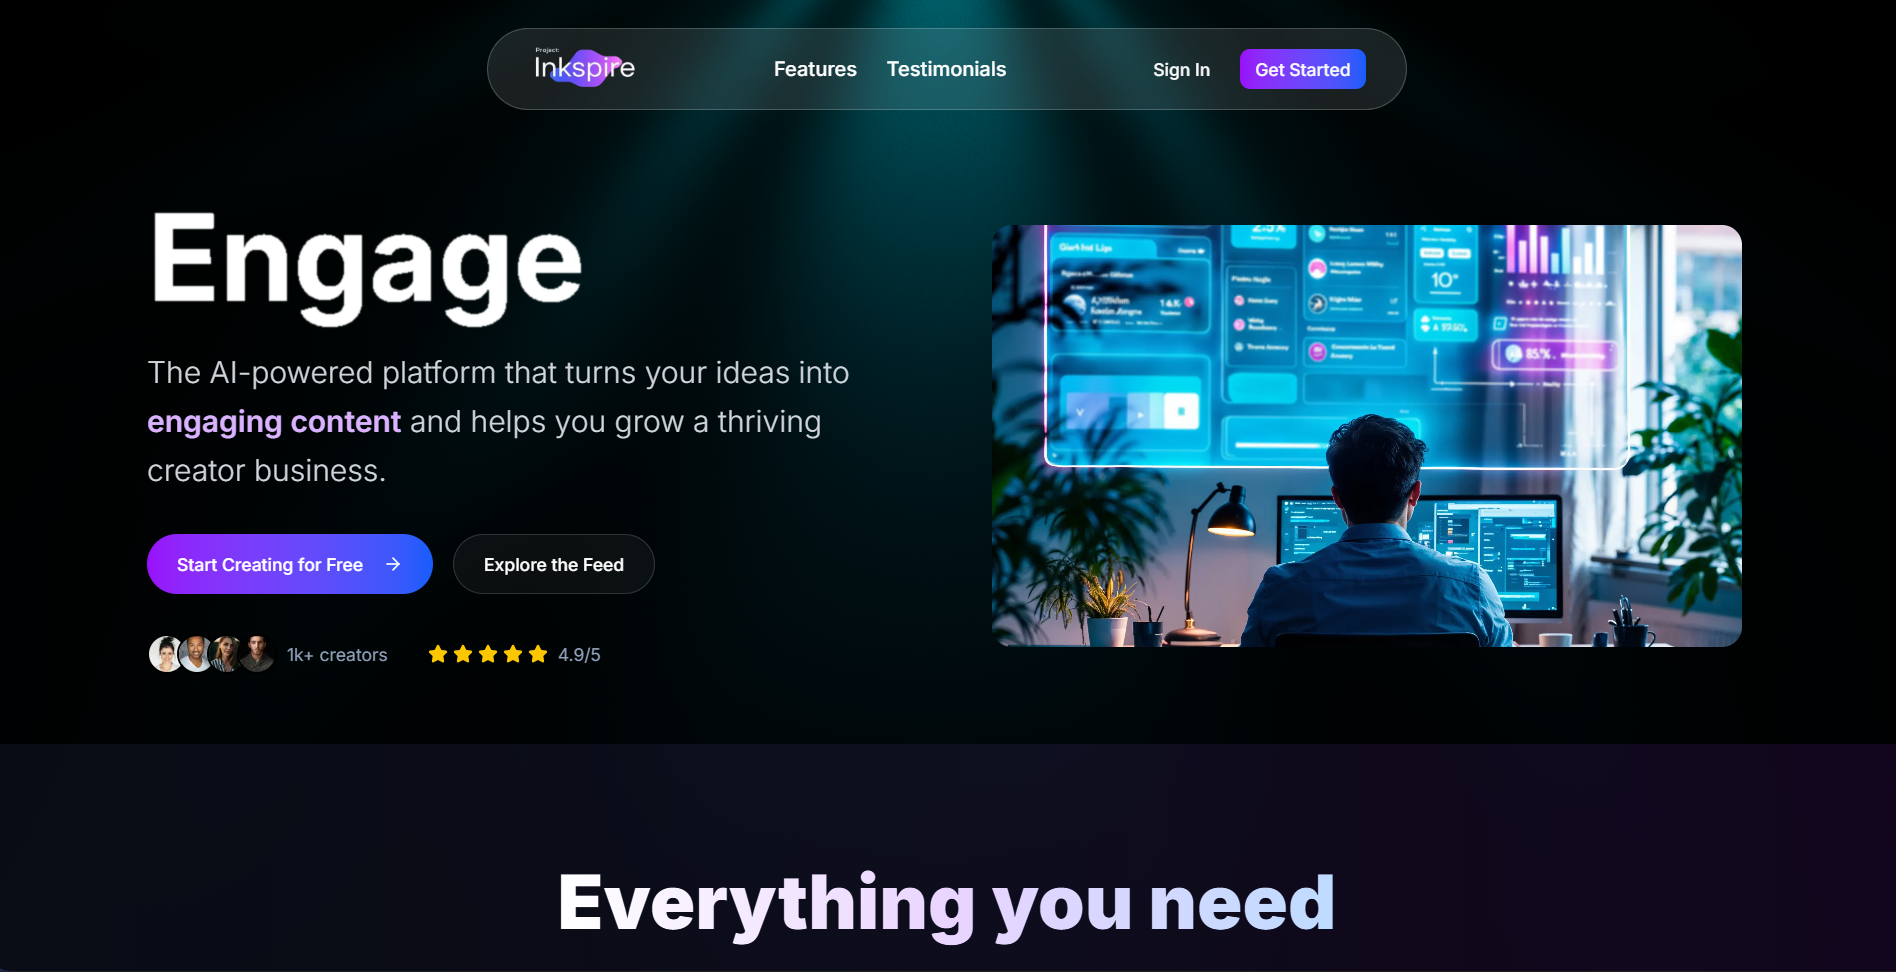
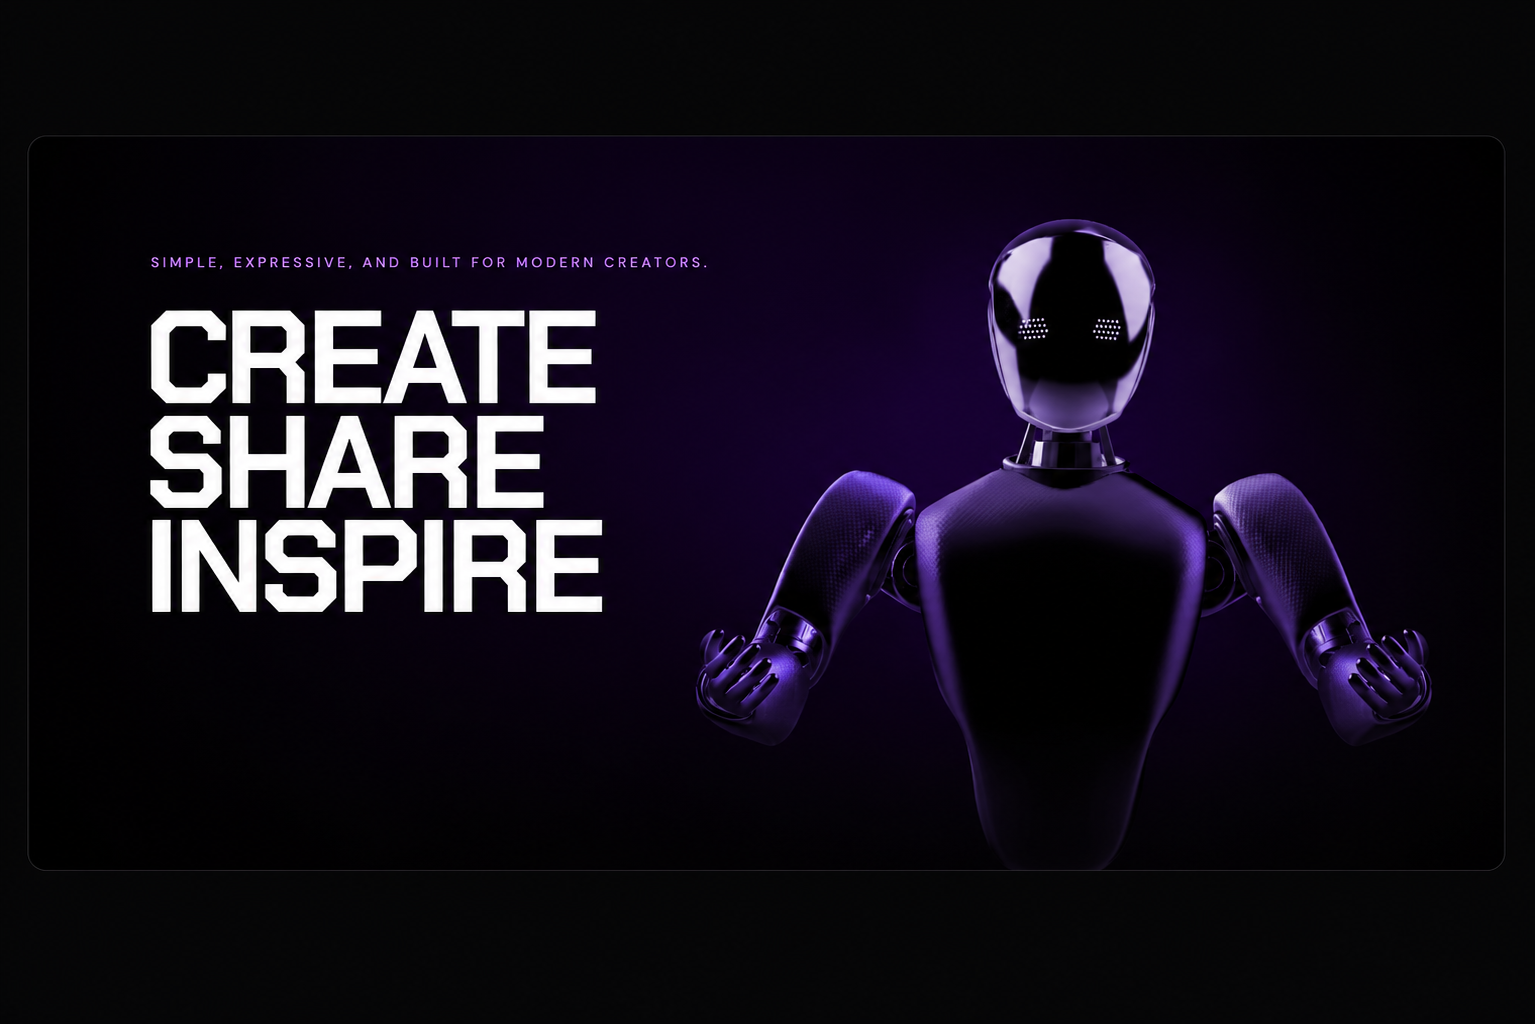
fix(projects): update inkspire thumbnail asset and project data

diff --git a/Client/src/data/projects.ts b/Client/src/data/projects.ts
@@ -3,7 +3,7 @@ export const projects = [
     title: "Inkspire | AI Content Platform",
     description:
       "Inkspire is an AI-powered content creation and sharing platform built with Next.js, designed for writers and creators to capture, organize, and share ideas seamlessly. Features include real-time collaboration, Gemini AI assistance, analytics, and a responsive modern UI.",
-    imgUrl: "/inkspire.png",
+    imgUrl: "/inkspire.gif",
     link: "https://inkspire-five.vercel.app",
     tags: [
       "NextJS",
